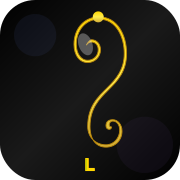
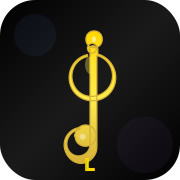
Design: Melhorar desenho da clave de sol no ícone PWA
- Substituir símbolo Unicode por caminho SVG profissional
- Usar path baseado em fontes musicais (Bravura style)
- Clave de sol agora é reconhecível e profissional
- Adicionar brilhos e destaques para dar profundidade
- Regenerar todos os PNGs (180x180, 192x192, 512x512)
- Atualizar Service Worker para v1.8.0
- Adicionar preview_icon.html para visualização local

Problema: Clave de sol anterior não parecia uma clave real
Solução: Path SVG profissional com formato clássico reconhecível

Para ver no iPhone: remova o app da tela inicial e reinstale

Changed region(s): [[0.3333, 0.0556, 0.7222, 0.9167]]

diff --git a/preview_icon.html b/preview_icon.html
@@ -1,0 +1,88 @@
+<!DOCTYPE html>
+<html>
+<head>
+    <meta charset="UTF-8">
+    <title>Preview Ícone - Clave de Sol</title>
+    <style>
+        body {
+            display: flex;
+            flex-direction: column;
+            align-items: center;
+            justify-content: center;
+            min-height: 100vh;
+            background: #2a2a2a;
+            font-family: Arial, sans-serif;
+            color: #fff;
+            margin: 0;
+            padding: 20px;
+        }
+        .preview-container {
+            display: flex;
+            gap: 40px;
+            flex-wrap: wrap;
+            justify-content: center;
+        }
+        .icon-preview {
+            text-align: center;
+        }
+        .icon-preview img {
+            border-radius: 20%;
+            box-shadow: 0 10px 30px rgba(0,0,0,0.5);
+            margin-bottom: 15px;
+        }
+        .icon-preview h3 {
+            margin: 0;
+            font-size: 14px;
+            color: #ffd700;
+        }
+        .svg-preview {
+            margin-top: 40px;
+        }
+        h1 {
+            color: #ffd700;
+            margin-bottom: 30px;
+        }
+        .info {
+            background: rgba(255,255,255,0.1);
+            padding: 20px;
+            border-radius: 10px;
+            margin-top: 30px;
+            max-width: 600px;
+            text-align: center;
+        }
+    </style>
+</head>
+<body>
+    <h1>🎵 Preview do Ícone - Ministério de Louvor</h1>
+    
+    <div class="preview-container">
+        <div class="icon-preview">
+            <img src="icon-180x180.png" width="180" height="180" alt="Ícone 180x180">
+            <h3>180×180 (iPhone)</h3>
+        </div>
+        
+        <div class="icon-preview">
+            <img src="icon-192x192.png" width="192" height="192" alt="Ícone 192x192">
+            <h3>192×192 (Android)</h3>
+        </div>
+        
+        <div class="icon-preview">
+            <img src="icon-512x512.png" width="256" height="256" alt="Ícone 512x512">
+            <h3>512×512 (High-Res)</h3>
+        </div>
+    </div>
+    
+    <div class="svg-preview">
+        <div class="icon-preview">
+            <img src="icon.svg" width="256" height="256" alt="Ícone SVG">
+            <h3>SVG Original</h3>
+        </div>
+    </div>
+    
+    <div class="info">
+        <p><strong>Clave de Sol Dourada</strong></p>
+        <p>Símbolo musical profissional (𝄞)</p>
+        <p>Se a clave de sol não aparecer corretamente, significa que a fonte musical não está disponível. Vou criar uma versão com caminho SVG customizado.</p>
+    </div>
+</body>
+</html>

diff --git a/static/sw.js b/static/sw.js
@@ -1,4 +1,4 @@
-const CACHE_NAME = 'ministry-v1.7.0';
+const CACHE_NAME = 'ministry-v1.8.0';
 const CACHE_ASSETS = [
     '/',
     '/static/styles.css',
